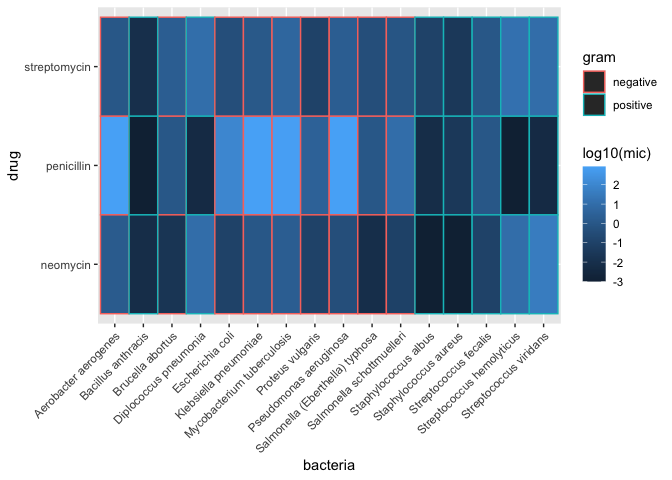
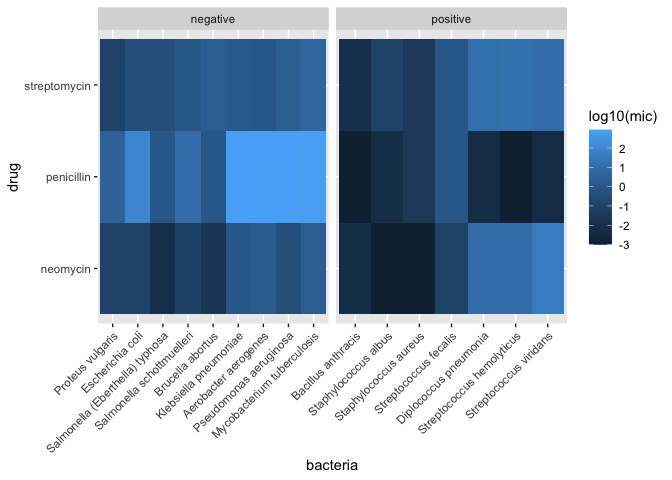
Revise c05

diff --git a/challenges/c05-antibiotics-assignment.md b/challenges/c05-antibiotics-assignment.md
@@ -1,7 +1,7 @@
 Antibiotics
 ================
 Carter Harris
-2020-
+2025-04-14
 
 *Purpose*: Creating effective data visualizations is an *iterative*
 process; very rarely will the first graph you make be the most
@@ -163,14 +163,15 @@ df_antibiotics_long <-
     cols = c(penicillin, streptomycin, neomycin),
     names_to = "drug",
     values_to = "mic"
-  )
+  ) %>% 
+  mutate(bacteria = fct_reorder(bacteria, mic))
 
 df_antibiotics_long
 ```
 
     ## # A tibble: 48 × 4
     ##    bacteria              gram     drug             mic
-    ##    <chr>                 <chr>    <chr>          <dbl>
+    ##    <fct>                 <chr>    <chr>          <dbl>
     ##  1 Aerobacter aerogenes  negative penicillin   870    
     ##  2 Aerobacter aerogenes  negative streptomycin   1    
     ##  3 Aerobacter aerogenes  negative neomycin       1.6  
@@ -187,10 +188,15 @@ df_antibiotics_long
 df_antibiotics_long %>% 
   ggplot(aes(bacteria, log10(mic), fill = drug, color = gram)) +
   theme(axis.text.x = element_text(angle = 45, hjust = 1)) +
-  geom_col(position = "dodge")
+  geom_col(position = "dodge") +
+  scale_color_manual(values = c("negative" = "black", "positive" = "white"))
 ```
 
 ![](c05-antibiotics-assignment_files/figure-gfm/q1.1-1.png)<!-- -->
+
+``` r
+  #facet_wrap(~gram, scales = "free_x")
+```
 
 #### Visual 2 (All variables)
 
@@ -218,14 +224,8 @@ df_antibiotics_long %>%
 ![](c05-antibiotics-assignment_files/figure-gfm/q1.2-1.png)<!-- -->
 
 ``` r
-#ggsave("test_plot.png", width = 12, height = 10)
+#ggsave("test_plot.png", width = 12, height = 10) 
 ```
-
-Note that the above plot doesn’t show the complete dataset very nicely
-in an R notebook. As such, a saved copy of the file with corrected
-widths is embedded below:
-
-![](c05-viz2.png)  
 
 #### Visual 3 (Some variables)
 
@@ -239,9 +239,10 @@ your other visuals.
 ``` r
 # WRITE YOUR CODE HERE
 df_antibiotics_long %>% 
-  ggplot(aes(bacteria, drug, fill = log10(mic), color = gram)) +
+  ggplot(aes(bacteria, drug, fill = log10(mic))) +
   theme(axis.text.x = element_text(angle = 45, hjust = 1)) +
-  geom_tile(size = 0.5)
+  geom_tile(size = 0.5) +
+  facet_wrap(~gram, scales = "free_x")
 ```
 
     ## Warning: Using `size` aesthetic for lines was deprecated in ggplot2 3.4.0.
@@ -285,11 +286,10 @@ your other visuals.
 ``` r
 # WRITE YOUR CODE HERE
 df_antibiotics_long %>%
-  group_by(bacteria) %>% 
-  mutate(mean_mic = mean(mic)) %>% 
-  ggplot(aes(bacteria, log10(mean_mic))) +
-  theme(axis.text.x = element_text(angle = 45, hjust = 1)) +
-  geom_col()
+  #group_by(gram) %>% 
+  #mutate(mean_mic = mean(mic)) %>% 
+  ggplot(aes(gram, log10(mic))) +
+  geom_boxplot()
 ```
 
 ![](c05-antibiotics-assignment_files/figure-gfm/q1.5-1.png)<!-- -->
@@ -342,7 +342,8 @@ opportunity to think about why this is.**
   helping to answer this question?
 
   - I found a combination of my second and third visual the most
-    effective at answering this question.
+    effective at answering this question. Visual 5 was also helpful for
+    gram strain.
 
 - Why?
 
@@ -356,6 +357,8 @@ opportunity to think about why this is.**
     value ranges, was slightly difficult to read. The common x-axis
     between graphs was also particularly helpful for identifying
     patterns.
+  - Visual 5 was helpful by showcasing aggregate trends across the gram
+    data.
 
 #### Guiding Question 2
 
